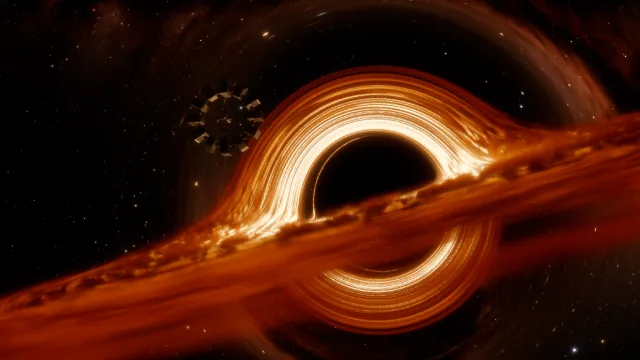
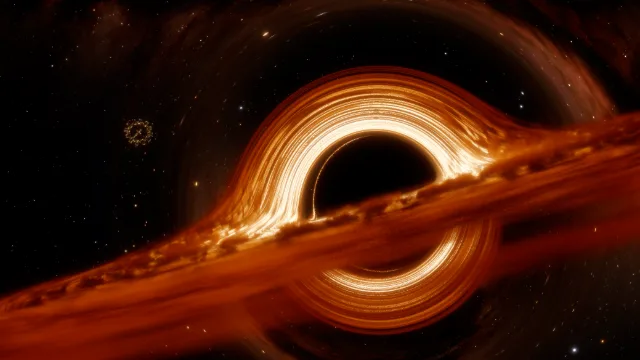
The Endurance flies along its hub's axis, its ring spinning about it, on its prograde orbit
- the axis along its velocity (prograde, the way the disk turns — was: along
  the radius, the ring facing the hole), the ring spinning about it
- the preset: on a tilted orbit (18 M, 40°) coming towards the camera, its
  ring face-on as in the film's shot (2.4 M)

diff --git a/src/settings.ts b/src/settings.ts
@@ -447,13 +447,14 @@ export const presets: Record<string, Preset> = {
     dof: true, dofAperture: 0.3, dofFocus: 0, lensFlare: 0.6, diskHaze: 0.6, diskSmoke: 0.6,
   },
   // (a flight: the image never accumulates — the thin disk, crisp in motion, where the volume would be grainy)
-  // the film's wide shot: the Endurance on its orbit before Gargantua's disk (cinematic scale: 1.6 M)
+  // the film's wide shot: the Endurance on its orbit before Gargantua's disk, coming towards the camera
+  // along it (its ring face-on; cinematic scale: 2.4 M)
   "Interstellar: the Endurance before Gargantua": {
     spin: 0.6, distance: 40.904, inclination: 86.995, azimuth: 10.299, fov: 45, yaw: -3.854, pitch: 4.015, roll: -15.416,
     motion: "static", shiftMode: "none", diskTemp: 4500, diskOuter: 26, turbulence: 0.95, diskEmission: "bolometric",
     diskThickness: 0.009, diskTau: 59, jet: false, animate: false, time: 1692.84, tonemap: "Film", bloom: 0.5,
     dof: false, lensFlare: 0.6, diskHaze: 0.6, diskSmoke: 0.6, exposure: 0, autoExposure: false,
-    endurance: true, enduranceOrbit: 30, enduranceIncl: 8, enduranceNode: -80, endurancePhase: 141.87, enduranceSize: 1.6, enduranceLight: 1.5,
+    endurance: true, enduranceOrbit: 18, enduranceIncl: 40, enduranceNode: -144, endurancePhase: 125.82, enduranceSize: 2.4, enduranceLight: 1.5,
   },
   "Ranger: approaching Gargantua": {
     spin: 0.6, distance: 34, inclination: 84, fov: 55, yaw: 0, pitch: 0, roll: 0, shiftMode: "none",

diff --git a/src/endurance.ts b/src/endurance.ts
@@ -22,7 +22,7 @@ const unit = (a: Vec3): Vec3 => {
   return [a[0] / l, a[1] / l, a[2] / l];
 };
 
-/** The Endurance's centre, velocity and axes (the hole's flat map) at time t: a circular orbit. */
+/** The Endurance's centre, velocity and axes (the hole's flat map) at time t: a circular prograde orbit. */
 export function endurancePose(s: Settings, t: number) {
   const a = Math.max(s.enduranceOrbit, 3);
   const om = 1 / (a ** 1.5 + s.spin);
@@ -35,9 +35,10 @@ export function endurancePose(s: Settings, t: number) {
   const qv: Vec3 = [-a * om * Math.sin(u), a * om * Math.cos(u) * Math.cos(i), a * om * Math.cos(u) * Math.sin(i)];
   const rz = (v: Vec3): Vec3 => [v[0] * Math.cos(nd) - v[1] * Math.sin(nd), v[0] * Math.sin(nd) + v[1] * Math.cos(nd), v[2]];
   const C = rz(q), V = rz(qv);
-  // the ring's axis along the radius (its face to the hole), turning about it
-  const z = unit(C);
-  const x0 = unit(cross(z, [0, 0, 1]));
+  // it flies along its hub's axis (as in the film): the axis along its velocity — prograde, the way the
+  // disk turns — the ring spinning about it (right-handed about the motion), x0 its radial direction
+  const z = unit(V);
+  const x0 = unit(cross(cross(z, C), z));
   const y0 = cross(z, x0);
   const psi = (2 * Math.PI * t) / Math.max(s.enduranceSpin, 1);
   const x: Vec3 = [0, 1, 2].map((k) => Math.cos(psi) * x0[k]! + Math.sin(psi) * y0[k]!) as Vec3;

diff --git a/src/ui/schema.ts b/src/ui/schema.ts
@@ -492,7 +492,7 @@ export const SCHEMA: ControlDef[] = [
   },
   {
     key: "endurance", type: "toggle", section: "matter", group: "Endurance", label: "Endurance",
-    help: "Interstellar's ring ship on a circular orbit around the hole, lit by the disk, as in the film's shots. At its true size (64 m) it would be far below a pixel next to a hole of 10⁸ M☉ (M ≈ 1 AU): it is drawn at a cinematic scale. Not lensed (seen along straight rays from the camera); hidden by the disk's gas in front of it.",
+    help: "Interstellar's ring ship on a circular prograde orbit around the hole, flying along its hub's axis with its ring spinning about it, lit by the disk, as in the film's shots. At its true size (64 m) it would be far below a pixel next to a hole of 10⁸ M☉ (M ≈ 1 AU): it is drawn at a cinematic scale. Not lensed (seen along straight rays from the camera); hidden by the disk's gas in front of it.",
     keywords: "endurance ship ring station interstellar orbit film",
   },
   {
